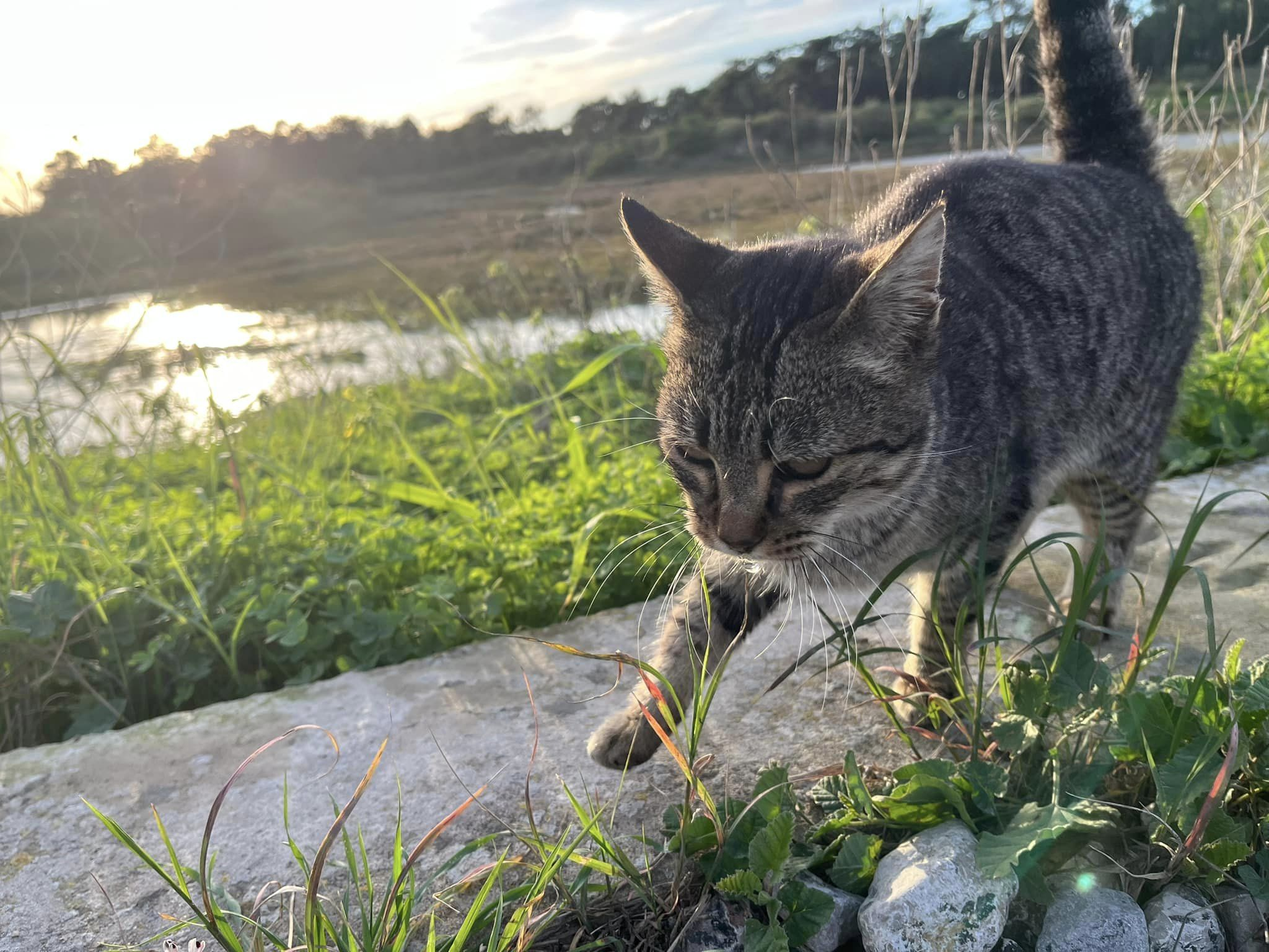
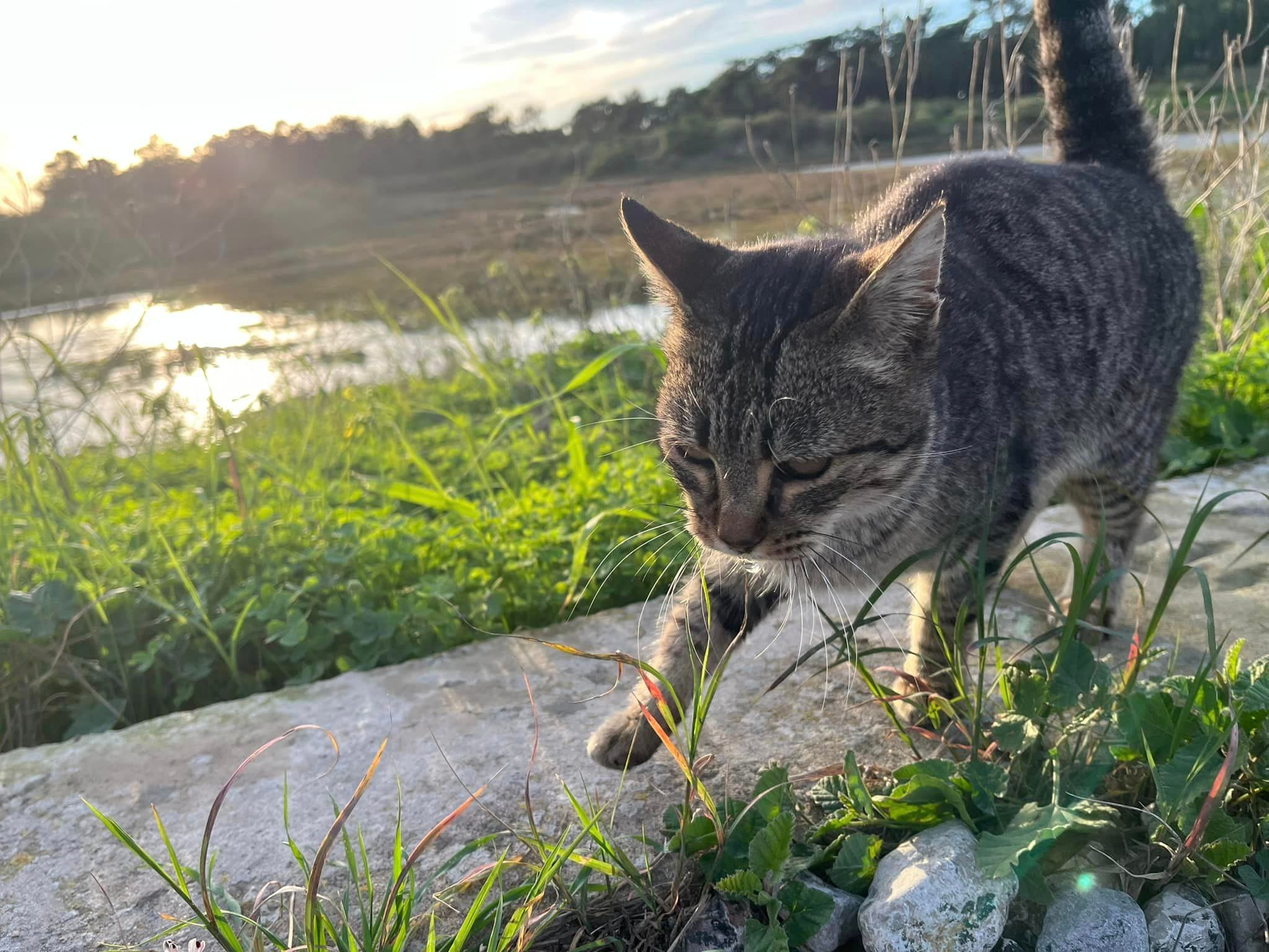
Optimize post image assets - Vila Real

diff --git a/posts/vila-real.md b/posts/vila-real.md
@@ -23,8 +23,6 @@ Vila Real de Santo António sits at the eastern edge of the Algarve, beside the 
 
 The town feels calm and orderly, with broad squares, palm trees, and streets that make the walk easy. It is not trying to compete with the loudest Algarve destinations, and that is part of the charm.
 
-![Palm trees and fountain landscape](vila2.jpg)
-
 The fountain and palms set the tone immediately: bright, relaxed, and made for wandering without a very serious plan.
 
 ## History
